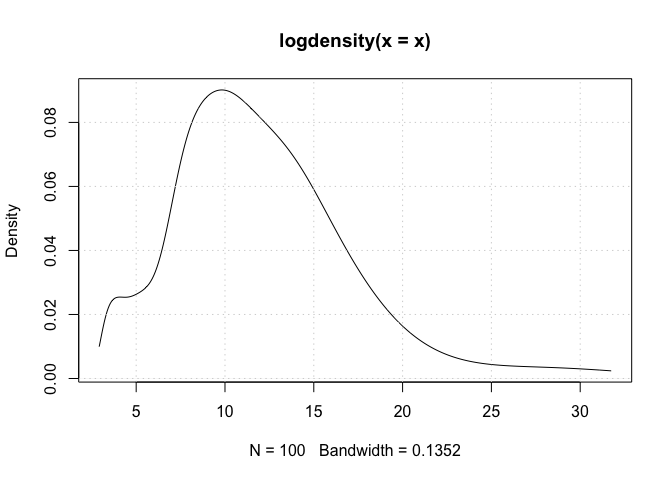
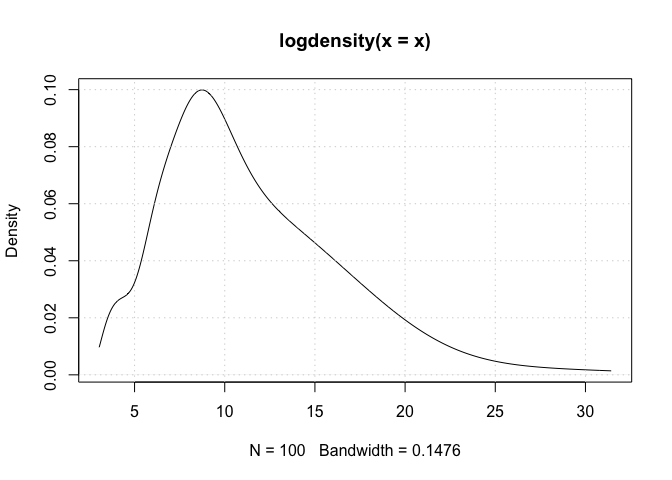
version 0.3.1

diff --git a/src/logKDE.cpp b/src/logKDE.cpp
@@ -18,7 +18,7 @@ using namespace Rcpp;
 // [[Rcpp::export]]
 double epanechnikov(double x){
   double bound = std::sqrt(5.0);
-  double y = 3*(5-(x*x))/(2*std::sqrt(5.0))*(x>(-1.0*bound))*(x<(1.0*bound));
+  double y = 3.0*(5.0-(x*x))/(20.0*std::sqrt(5.0))*(x>(-1.0*bound))*(x<(1.0*bound));
   return y;
 }
 

diff --git a/README.md b/README.md
@@ -1,49 +1,305 @@
 
 <!-- README.md is generated from README.Rmd. Please edit that file -->
-logKDE
-======
 
-<img src="https://www.r-pkg.org/badges/version/logKDE"></img></a> [![Downloads from the RStudio CRAN mirror](http://cranlogs.r-pkg.org/badges/logKDE)](https://CRAN.R-project.org/package=logKDE) [![DOI](https://zenodo.org/badge/DOI/10.5281/zenodo.1317784.svg)](https://doi.org/10.5281/zenodo.1317784)
+# logKDE: log-transformed kernel density estimation
 
-The goal of logKDE is to efficiently compute Kernel density estimates in the log domain with a wide variety of kernels. In addition it provides two new BW estimators for use with strictly positive densities.
+<img src="http://www.r-pkg.org/badges/version-last-release/logKDE"></img></a>
+[![Downloads from the RStudio CRAN
+mirror](http://cranlogs.r-pkg.org/badges/logKDE)](https://CRAN.R-project.org/package=logKDE)
+[![DOI](https://zenodo.org/badge/DOI/10.5281/zenodo.1317784.svg)](https://doi.org/10.5281/zenodo.1317784)
 
-Installation
-------------
+The goal of logKDE is to provide a set of functions for kernel density
+estimation on the positive domain, using log-kernel density functions,
+for the *R* programming environment. The main functions of the package
+are the `logdensity` and `logdensity_fft` functions. The choice of
+functional syntax was made to resemble those of the `density` function,
+for conducting kernel density estimation on the real domain. The
+`logdensity` function conducts density estimation, via first principle
+computations, whereas `logdensity_fft` utilizes fast-Fourier
+transformation in order to speed up computation. The use of `Rcpp`
+guarantees that both methods are sufficiently fast for large data
+scenarios.
 
-You can install the latest stable build of logKDE from CRAN using the command below:
+Currently, a variety of kernel functions and plugin bandwidth methods
+are available. By default both `logdensity` and `logdensity_fft` are set
+to use log-normal kernel functions (`kernel = 'gaussian'`) and
+Silverman’s rule-of-thumb bandwidth, applied to log-transformed data
+(`bw = 'nrd0'`). However, the following kernels are also available:
+
+  - log-Epanechnikov (`kernel = 'epanechnikov'`),
+  - log-Laplace (`kernel = 'laplace'`),
+  - log-logistic (`kernel = 'logistic'`),
+  - log-triangular (`kernel = 'triangular'`),
+  - log-uniform (`kernel = 'uniform'`).
+
+The following plugin bandwidth methods are also available:
+
+  - all of the methods that available for density, applied to
+    log-transformed data (see `?bw.nrd` regarding the options),
+  - unbiased cross-validated bandwidths in the positive domain (`bw =
+    'logcv'`),
+  - a Silverman-type rule-of-thumb that optimizes the kernel density
+    estimator fit, compared to a log-normal density function (`bw =
+    'logg'`).
+
+The `logdensity` and `logdensity_fft` functions also behave in the same
+way as `density`, when called within the `plot` function. The usual
+assortment of commands that apply to `plot` output objects can also be
+called.
+
+For a comprehensive review of the literature on positive-domain kernel
+density estimation, thorough descriptions of the mathematics relating to
+the methods that have been described, simulation results, and example
+applications of the `logKDE` package, please consult the package
+vignette. The vignette is available via the command
+`vignette('logKDE')`, once the package is installed.
+
+## Installation
+
+If `devtools` has already been installed, then the most current build of
+`logKDE` can be obtained via the command:
+
+``` r
+devtools::install_github('andrewthomasjones/logKDE',build_vignettes = T)
+```
+
+The latest stable build of `logKDE` can be obtain from CRAN via the
+command:
 
 ``` r
 install.packages("logKDE", repos='http://cran.us.r-project.org')
 ```
 
-Example
--------
+An archival build of `logKDE` is available at
+<https://zenodo.org/record/1317784>. Manual installation instructions
+can be found within the R installation and administration manual
+<https://cran.r-project.org/doc/manuals/r-release/R-admin.html>.
 
-This is a very basic example:
+## Examples
+
+### Example 1
+
+In this example, we demonstrate that `logdensity` has nearly identical
+syntax to `density`. We also show that the format of the outputs are
+also nearly identical.
 
 ``` r
-## load library
+## Load 'logKDE' library.
 library(logKDE)
 
-## strictly positive data
-x<-rchisq(100,12)
+## Set a random seed.
+set.seed(1)
 
-## do KDE
-y<-logdensity(x)
+## Generate strictly positive data.
+## Data are generated from a chi-squared distribution with 12 degrees of freedom.
+x <- rchisq(100,6)
 
-## what if we want it faster
-y_fft<-logdensity_fft(x)
+## Construct and print the output of the function 'density'.
+density(x)
+#> 
+#> Call:
+#>  density.default(x = x)
+#> 
+#> Data: x (100 obs.);  Bandwidth 'bw' = 1.018
+#> 
+#>        x                y            
+#>  Min.   :-2.366   Min.   :0.0000475  
+#>  1st Qu.: 2.547   1st Qu.:0.0072263  
+#>  Median : 7.459   Median :0.0331904  
+#>  Mean   : 7.459   Mean   :0.0508396  
+#>  3rd Qu.:12.372   3rd Qu.:0.1013289  
+#>  Max.   :17.284   Max.   :0.1312107
 
-## Plot the two KDEs
-plot(y)
-grid()
+## Construct and print the output of the function 'logdensity'.
+logdensity(x)
+#> 
+#> Call:
+#>  logdensity(x = x)
+#> 
+#> Data: x (100 obs.);  Bandwidth 'bw' = 0.1923
+#> 
+#>        x                 y          
+#>  Min.   : 0.1111   Min.   :0.00000  
+#>  1st Qu.: 3.7851   1st Qu.:0.02313  
+#>  Median : 7.4592   Median :0.06527  
+#>  Mean   : 7.4592   Mean   :0.06707  
+#>  3rd Qu.:11.1333   3rd Qu.:0.11219  
+#>  Max.   :14.8073   Max.   :0.13698
+
+## Plot the 'density' output object.
+plot(density(x))
 ```
 
-![](man/figures/README-example-1.png)
+![](man/figures/README-example1-1.png)<!-- -->
 
 ``` r
-plot(y_fft)
+
+## Plot the 'logdensity' output object.
+plot(logdensity(x))
+```
+
+![](man/figures/README-example1-2.png)<!-- -->
+
+As a note, one can observe that `density` assigns positive probability
+to negative values. Since we know that the chi-squared generative model
+generates only positive values, this is an undesirable result. The
+log-transformed kernel density estimator that is produced by
+`logdensity` only assigns positive probability to positive values, and
+is thus bona fide in this estimation scenario.
+
+-----
+
+### Example 2
+
+In this example, we showcase the variety of kernel functions that are
+available in the package. Here, log-transformed kernel density
+estimators are constructed using the `logdensity` function.
+
+``` r
+## Load 'logKDE' library.
+library(logKDE)
+
+## Set a random seed.
+set.seed(1)
+
+## Generate strictly positive data.
+## Data are generated from a chi-squared distribution with 12 degrees of freedom.
+x <- rchisq(100,12)
+
+## Construct a log-KDE using the data, and using each of the available kernel functions.
+logKDE1 <- logdensity(x,kernel = 'gaussian',from = 1e-6,to = 30)
+logKDE2 <- logdensity(x,kernel = 'epanechnikov',from = 1e-6,to = 30)
+logKDE3 <- logdensity(x,kernel = 'laplace',from = 1e-6,to = 30)
+logKDE4 <- logdensity(x,kernel = 'logistic',from = 1e-6,to = 30)
+logKDE5 <- logdensity(x,kernel = 'triangular',from = 1e-6,to = 30)
+logKDE6 <- logdensity(x,kernel = 'uniform',from = 1e-6,to = 30)
+
+## Plot the true probability density function of the generative model.
+plot(c(0,30),c(0,0.1),type='n',xlab='x',ylab='Density',main='Example 2')
+curve(dchisq(x,12),from = 0,to = 30,add = T)
+
+## Plot each of the log-KDE functions, each in a different rainbow() colour.
+lines(logKDE1$x,logKDE1$y,col = rainbow(7)[1])
+lines(logKDE2$x,logKDE2$y,col = rainbow(7)[2])
+lines(logKDE3$x,logKDE3$y,col = rainbow(7)[3])
+lines(logKDE4$x,logKDE4$y,col = rainbow(7)[4])
+lines(logKDE5$x,logKDE5$y,col = rainbow(7)[5])
+lines(logKDE6$x,logKDE6$y,col = rainbow(7)[6])
+
+## Add a grid for a visual guide.
 grid()
 ```
 
-![](man/figures/README-example-2.png)
+![](man/figures/README-example2-1.png)<!-- -->
+
+-----
+
+### Example 3
+
+In this example, we show that `logdensity` and `logdensity_ftt` yield
+nearly identical results. Here, log-transformed kernel density
+estimators are constructed using the `logdensity_ftt` function.
+
+``` r
+## Load 'logKDE' library.
+library(logKDE)
+
+## Set a random seed.
+set.seed(1)
+
+## Generate strictly positive data.
+## Data are generated from a chi-squared distribution with 12 degrees of freedom.
+x <- rchisq(100,12)
+
+## Construct a log-KDE using the data, and using each of the available kernel functions.
+logKDE1 <- logdensity_fft(x,kernel = 'gaussian',from = 1e-6,to = 30)
+logKDE2 <- logdensity_fft(x,kernel = 'epanechnikov',from = 1e-6,to = 30)
+logKDE3 <- logdensity_fft(x,kernel = 'laplace',from = 1e-6,to = 30)
+logKDE4 <- logdensity_fft(x,kernel = 'logistic',from = 1e-6,to = 30)
+logKDE5 <- logdensity_fft(x,kernel = 'triangular',from = 1e-6,to = 30)
+logKDE6 <- logdensity_fft(x,kernel = 'uniform',from = 1e-6,to = 30)
+
+## Plot the true probability density function of the generative model.
+plot(c(0,30),c(0,0.1),type='n',xlab='x',ylab='Density',main='Example 3')
+curve(dchisq(x,12),from = 0,to = 30,add = T)
+
+## Plot each of the log-KDE functions, each in a different rainbow() colour.
+lines(logKDE1$x,logKDE1$y,col = rainbow(7)[1])
+lines(logKDE2$x,logKDE2$y,col = rainbow(7)[2])
+lines(logKDE3$x,logKDE3$y,col = rainbow(7)[3])
+lines(logKDE4$x,logKDE4$y,col = rainbow(7)[4])
+lines(logKDE5$x,logKDE5$y,col = rainbow(7)[5])
+lines(logKDE6$x,logKDE6$y,col = rainbow(7)[6])
+
+## Add a grid for a visual guide.
+grid()
+```
+
+![](man/figures/README-example3-1.png)<!-- -->
+
+We observe that the `logdensity_fft` outputs are noticiably smoother
+than those of `logdensity`. This is because fast Fourier transformations
+only yield evaluations kernel density estimates at discrete points, and
+the regions between these discrete points are approximated via a linear
+approximator, namely using the `approx` function. This is the same
+evaluation technique as that which is used in the function `density`.
+
+-----
+
+### Example 4
+
+In this example, we showcase the variety of plugin bandwidth estimators
+that are available in the package. Here, log-transformed kernel density
+estimators are constructed using the `logdensity` function.
+
+``` r
+## Load 'logKDE' library.
+library(logKDE)
+
+## Set a random seed.
+set.seed(10)
+
+## Generate strictly positive data.
+## Data are generated from a chi-squared distribution with 12 degrees of freedom.
+x <- rchisq(100,12)
+
+## Construct a log-KDE using the data, and using each of the available kernel functions.
+logKDE1 <- logdensity(x,bw = 'nrd0',from = 1e-6,to = 30)
+logKDE2 <- logdensity(x,bw = 'logcv',from = 1e-6,to = 30)
+logKDE3 <- logdensity(x,bw = 'logg',from = 1e-6,to = 30)
+logKDE4 <- logdensity(x,bw = 'nrd',from = 1e-6,to = 30)
+logKDE5 <- logdensity(x,bw = 'ucv',from = 1e-6,to = 30)
+#> Warning in stats::bw.ucv(log(x)): minimum occurred at one end of the range
+logKDE6 <- logdensity(x,bw = 'bcv',from = 1e-6,to = 30)
+#> Warning in stats::bw.bcv(log(x)): minimum occurred at one end of the range
+logKDE7 <- logdensity(x,bw = 'SJ-ste',from = 1e-6,to = 30)
+logKDE8 <- logdensity(x,bw = 'SJ-dpi',from = 1e-6,to = 30)
+
+
+## Plot the true probability density function of the generative model.
+plot(c(0,30),c(0,0.1),type='n',xlab='x',ylab='Density',main='Example 4')
+curve(dchisq(x,12),from = 0,to = 30,add = T)
+
+## Plot each of the log-KDE functions with different choices of bandwidth, each in a different rainbow() colour.
+lines(logKDE1$x,logKDE1$y,col = rainbow(9)[1])
+lines(logKDE2$x,logKDE2$y,col = rainbow(9)[2])
+lines(logKDE3$x,logKDE3$y,col = rainbow(9)[3])
+lines(logKDE4$x,logKDE4$y,col = rainbow(9)[4])
+lines(logKDE5$x,logKDE5$y,col = rainbow(9)[5])
+lines(logKDE6$x,logKDE6$y,col = rainbow(9)[6])
+lines(logKDE7$x,logKDE7$y,col = rainbow(9)[7])
+lines(logKDE8$x,logKDE8$y,col = rainbow(9)[8])
+
+## Add a grid for a visual guide.
+grid()
+```
+
+![](man/figures/README-example4-1.png)<!-- -->
+
+## Bug reporting and contributions
+
+Thank you for your interest in `logKDE`. If you happen to find any bugs
+in the program, then please report them on the Issues page
+(<https://github.com/andrewthomasjones/logKDE/issues>). Furthermore, if
+you would like to make a contribution to the software, then please
+forward a pull request to the owner of the repository.

diff --git a/NEWS.md b/NEWS.md
@@ -1,3 +1,9 @@
+logKDE 0.3.1
+=============
+
+Detailed readme added and some bug fixes.
+
+
 logKDE 0.3.0
 =============
 
